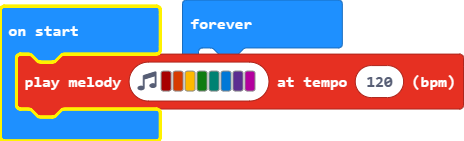
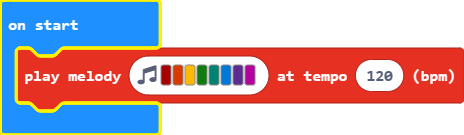
Update main.blocks, main.ts

Changed region(s): [[0.0302, 0.0, 1.0, 0.8593], [0.0, 0.0, 0.3621, 0.0593], [0.0, 0.1481, 0.181, 0.2667]]

diff --git a/main.ts b/main.ts
@@ -1,4 +1,1 @@
 music.playMelody("C5 B A G F E D C ", 120)
-basic.forever(function () {
-	
-})
